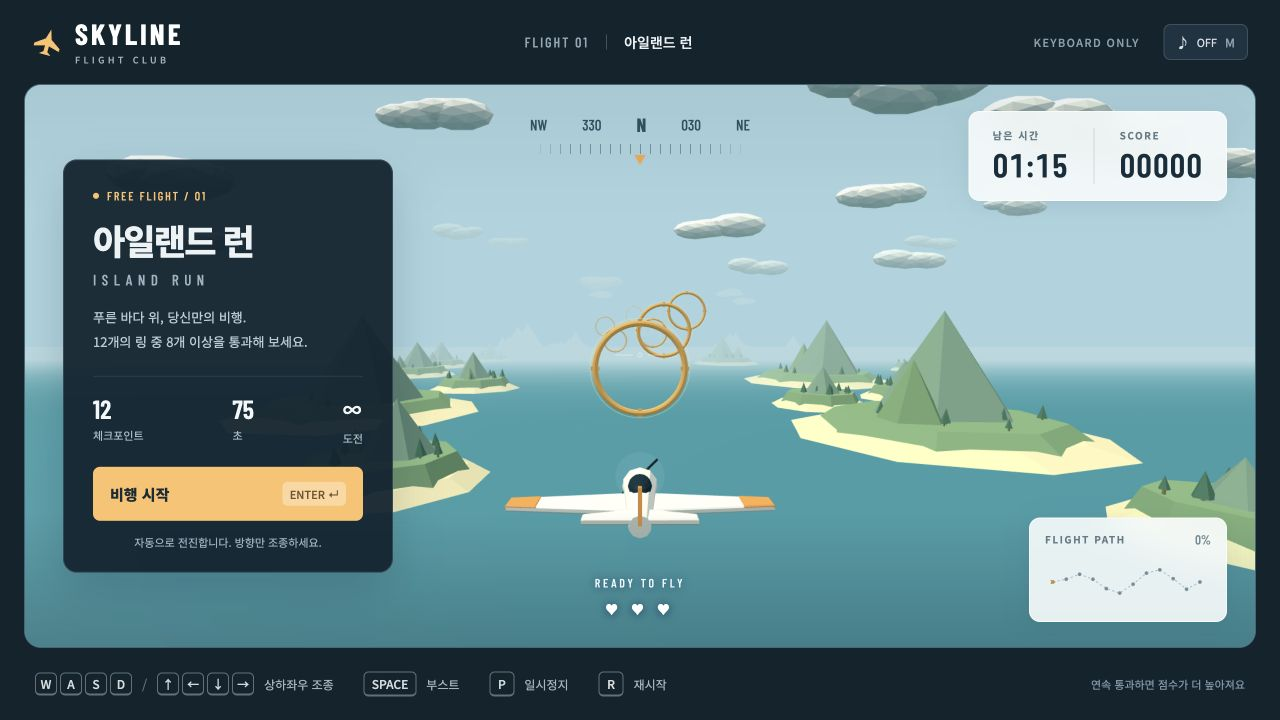
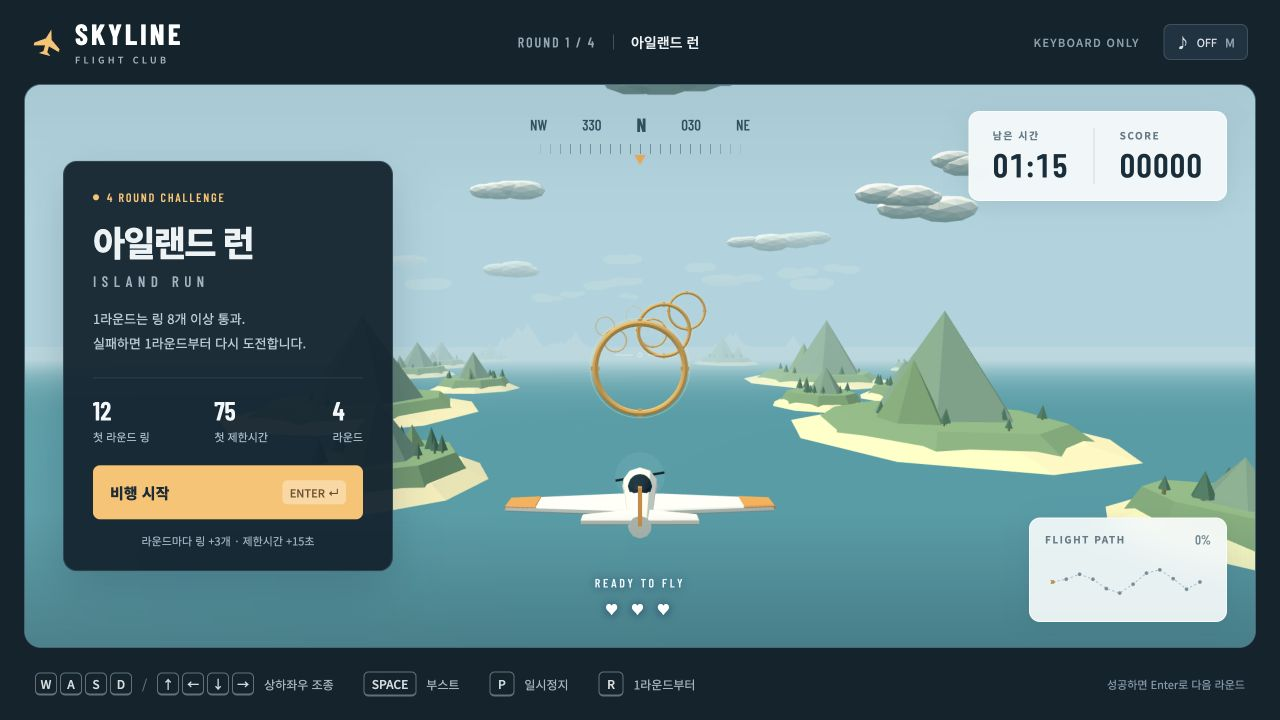
Add four-round challenge with escalating rings and restart on failure

diff --git a/game.js b/game.js
@@ -1,5 +1,5 @@
 import * as THREE from './vendor/three.module.js';
-import {COURSE,newFlight,startFlight,stepFlight} from './flight.js';
+import {COURSE,ROUNDS,getRound,newFlight,startFlight,advanceRound,stepFlight} from './flight.js';
 
 const $=id=>document.getElementById(id);
 const host=$('scene');
@@ -29,14 +29,14 @@ function island(x,z,s){
  const tree=new THREE.Mesh(new THREE.ConeGeometry(h*.35,h,5),treeMat);tree.position.set(tx,29+h*.3,tz);group.add(tree);}
  scene.add(group);
 }
-for(let i=0;i<25;i++){const side=i%2===0?-1:1;island(side*(270+rand()*550),230-i*155,65+rand()*130);}
+for(let i=0;i<38;i++){const side=i%2===0?-1:1;island(side*(270+rand()*550),230-i*155,65+rand()*130);}
 island(-210,-350,90);island(295,-770,85);
 const cloudMat=mat(0xf6f4e9,{transparent:true,opacity:.93});
 const clouds=[];
-for(let i=0;i<33;i++){const cloud=new THREE.Group();cloud.position.set((rand()-.5)*2100,290+rand()*180,450-rand()*4400);for(let j=0;j<4;j++){const c=new THREE.Mesh(new THREE.IcosahedronGeometry(19+rand()*25,1),cloudMat);c.scale.set(1.5,.62,.8);c.position.set(j*29,rand()*13,rand()*8);cloud.add(c);}scene.add(cloud);clouds.push(cloud);}
-const ringData=COURSE.map(r=>({...r,result:null}));
+for(let i=0;i<44;i++){const cloud=new THREE.Group();cloud.position.set((rand()-.5)*2100,290+rand()*180,450-rand()*6000);for(let j=0;j<4;j++){const c=new THREE.Mesh(new THREE.IcosahedronGeometry(19+rand()*25,1),cloudMat);c.scale.set(1.5,.62,.8);c.position.set(j*29,rand()*13,rand()*8);cloud.add(c);}scene.add(cloud);clouds.push(cloud);}
+let ringData=COURSE.map(r=>({...r,result:null}));
 const gold=mat(0xffc366,{metalness:.32,roughness:.35,emissive:0xd98516,emissiveIntensity:.25});
-const ringMeshes=ringData.map((r,i)=>{const g=new THREE.Group();g.position.set(r.x,r.y,r.z);const ring=new THREE.Mesh(new THREE.TorusGeometry(27,1.8,8,64),gold.clone());g.add(ring);const outer=new THREE.Mesh(new THREE.TorusGeometry(30,.2,4,64),new THREE.MeshBasicMaterial({color:0xffe2a5,transparent:true,opacity:.5}));g.add(outer);for(let j=0;j<4;j++){const tick=new THREE.Mesh(new THREE.BoxGeometry(2.4,5,1.8),gold);tick.position.set(Math.sin(j*Math.PI/2)*27,Math.cos(j*Math.PI/2)*27,0);tick.rotation.z=-j*Math.PI/2;g.add(tick);}scene.add(g);return g;});
+const ringMeshes=ROUNDS.at(-1).course.map((r,i)=>{const g=new THREE.Group();const active=ringData[i];g.visible=Boolean(active);g.position.set(active?.x??r.x,active?.y??r.y,r.z);const ring=new THREE.Mesh(new THREE.TorusGeometry(27,1.8,8,64),gold.clone());g.add(ring);const outer=new THREE.Mesh(new THREE.TorusGeometry(30,.2,4,64),new THREE.MeshBasicMaterial({color:0xffe2a5,transparent:true,opacity:.5}));g.add(outer);for(let j=0;j<4;j++){const tick=new THREE.Mesh(new THREE.BoxGeometry(2.4,5,1.8),gold);tick.position.set(Math.sin(j*Math.PI/2)*27,Math.cos(j*Math.PI/2)*27,0);tick.rotation.z=-j*Math.PI/2;g.add(tick);}scene.add(g);return g;});
 const plane=new THREE.Group();const white=mat(0xf0eee5,{roughness:.45,metalness:.1}),orange=mat(0xe99440,{roughness:.46}),dark=mat(0x1c3d4b,{roughness:.24,metalness:.4});
 function part(geometry,material,x,y,z,rx=0,ry=0,rz=0){const m=new THREE.Mesh(geometry,material);m.position.set(x,y,z);m.rotation.set(rx,ry,rz);plane.add(m);return m;}
 const body=part(new THREE.CylinderGeometry(1.4,2.7,17,10),white,0,0,.7,Math.PI/2);
@@ -53,7 +53,7 @@ const propBlur=part(new THREE.CircleGeometry(4,32),new THREE.MeshBasicMaterial({
 plane.position.set(0,100,0);scene.add(plane);
 const mapCtx=$('map').getContext('2d');
 ringData.forEach(()=>{$('segments').appendChild(document.createElement('i'));});
-function drawMap(){const ctx=mapCtx;ctx.clearRect(0,0,360,130);ctx.strokeStyle='#a2b9c2';ctx.lineWidth=2;ctx.setLineDash([5,5]);ctx.beginPath();ringData.forEach((r,i)=>{const x=17+i*29,y=65-r.x*.24;i?ctx.lineTo(x,y):ctx.moveTo(x,y);});ctx.stroke();ctx.setLineDash([]);ringData.forEach((r,i)=>{ctx.beginPath();ctx.arc(17+i*29,65-r.x*.24,4,0,6.28);ctx.fillStyle=r.result==='hit'?'#d8973c':r.result==='miss'?'#9babb3':'#718f9a';ctx.fill();});const p=Math.max(0,Math.min(1,(-plane.position.z-240)/2585));ctx.save();ctx.translate(17+p*319,65-plane.position.x*.24);ctx.fillStyle='#d98929';ctx.beginPath();ctx.moveTo(7,0);ctx.lineTo(-6,-5);ctx.lineTo(-3,0);ctx.lineTo(-6,5);ctx.closePath();ctx.fill();ctx.restore();}
+function drawMap(){const ctx=mapCtx,spacing=319/(ringData.length-1);ctx.clearRect(0,0,360,130);ctx.strokeStyle='#a2b9c2';ctx.lineWidth=2;ctx.setLineDash([5,5]);ctx.beginPath();ringData.forEach((r,i)=>{const x=17+i*spacing,y=65-r.x*.24;i?ctx.lineTo(x,y):ctx.moveTo(x,y);});ctx.stroke();ctx.setLineDash([]);ringData.forEach((r,i)=>{ctx.beginPath();ctx.arc(17+i*spacing,65-r.x*.24,4,0,6.28);ctx.fillStyle=r.result==='hit'?'#d8973c':r.result==='miss'?'#9babb3':'#718f9a';ctx.fill();});const p=Math.max(0,Math.min(1,(-plane.position.z-240)/(-ringData.at(-1).z-240)));ctx.save();ctx.translate(17+p*319,65-plane.position.x*.24);ctx.fillStyle='#d98929';ctx.beginPath();ctx.moveTo(7,0);ctx.lineTo(-6,-5);ctx.lineTo(-3,0);ctx.lineTo(-6,5);ctx.closePath();ctx.fill();ctx.restore();}
 function resize(){const w=host.clientWidth,h=host.clientHeight;renderer.setSize(w,h);camera.aspect=w/h;camera.updateProjectionMatrix();}new ResizeObserver(resize).observe(host);resize();
 camera.position.set(0,124,70);camera.lookAt(0,108,-150);
 const state=newFlight();const keys=new Set();let last=performance.now(),feedbackUntil=0,muted=true,audioCtx,engine,engineGain,engineFilter,best=0;
@@ -63,31 +63,52 @@ function audioReady(){if(!audioCtx){try{audioCtx=new (window.AudioContext||windo
 function chime(good=true){if(muted||!audioCtx)return;const t=audioCtx.currentTime;[0,.085,.17].forEach((offset,i)=>{const osc=audioCtx.createOscillator(),gain=audioCtx.createGain();osc.type='sine';osc.frequency.value=good?[523,659,784][i]:[220,180,140][i];gain.gain.setValueAtTime(0,t+offset);gain.gain.linearRampToValueAtTime(.09,t+offset+.01);gain.gain.exponentialRampToValueAtTime(.001,t+offset+.24);osc.connect(gain).connect(audioCtx.destination);osc.start(t+offset);osc.stop(t+offset+.25);});}
 function toggleSound(){muted=!muted;audioReady();$('soundLabel').textContent=muted?'OFF':'ON';$('sound').setAttribute('aria-label',muted?'소리 켜기':'소리 끄기');$('sound').setAttribute('aria-pressed',String(!muted));}
 function notify(title,subtitle='',color='#fff2ce'){const node=$('feedback');node.replaceChildren();node.append(document.createTextNode(title));if(subtitle){const small=document.createElement('small');small.textContent=subtitle;node.append(small);}node.style.color=color;node.style.opacity='1';feedbackUntil=performance.now()+1600;}
-function snapshot(){return {phase:state.phase,outcome:state.outcome,rings:state.hits,checked:state.next,total:12,score:state.score,time:Math.ceil(state.time),altitude:Math.round(state.y),speed:Math.round(state.speed*3.6),boost:Math.round(state.boost),lives:state.lives};}
-function start(){startFlight(state);keys.clear();ringData.forEach((r,i)=>{r.result=null;ringMeshes[i].visible=true;ringMeshes[i].children[0].material.color.set(0xffc366);});particles.forEach(p=>scene.remove(p.mesh));particles.length=0;plane.position.set(0,100,0);plane.rotation.set(0,0,0);plane.visible=true;camera.position.set(0,124,70);camera.fov=57;camera.updateProjectionMatrix();$('startCard').hidden=true;$('overlay').hidden=true;document.body.classList.add('playing');$('targetHint').hidden=false;audioReady();notify('좋은 비행 되세요','WASD / 방향키 · 링의 가운데를 향해');$('game').focus({preventScroll:true});updateHud();}
+function snapshot(){const config=getRound(state.round);return {phase:state.phase,outcome:state.outcome,round:state.round,totalRounds:ROUNDS.length,roundsCleared:state.roundsCleared,rings:state.hits,checked:state.next,total:config.rings,required:config.required,totalHits:state.totalHits,score:state.score,time:Math.ceil(state.time),altitude:Math.round(state.y),speed:Math.round(state.speed*3.6),boost:Math.round(state.boost),lives:state.lives};}
+function beginRound(){
+ keys.clear();ringData=getRound(state.round).course.map(r=>({...r,result:null}));
+ $('segments').replaceChildren(...ringData.map(()=>document.createElement('i')));
+ ringMeshes.forEach((mesh,i)=>{const r=ringData[i];mesh.visible=Boolean(r);if(r)mesh.position.set(r.x,r.y,r.z);});
+ particles.forEach(p=>scene.remove(p.mesh));particles.length=0;
+ plane.position.set(0,100,0);plane.rotation.set(0,0,0);plane.visible=true;
+ camera.position.set(0,124,70);camera.lookAt(0,108,-150);camera.fov=57;camera.updateProjectionMatrix();
+ $('startCard').hidden=true;$('overlay').hidden=true;document.body.classList.add('playing');$('targetHint').hidden=false;
+ audioReady();last=performance.now();$('game').focus({preventScroll:true});updateHud();
+}
+function start(){startFlight(state);beginRound();notify('1라운드 시작','WASD / 방향키 · 자동으로 전진합니다');}
+function nextRound(){advanceRound(state);beginRound();const config=getRound(state.round);notify(`${state.round}라운드 시작`,`${config.rings}개 링 · ${config.time}초 · ${config.required}개 이상 통과`);}
 function pause(){if(state.phase!=='flying')return;state.phase='paused';keys.clear();$('dialogTag').textContent='FLIGHT PAUSED';$('dialogTitle').textContent='잠시 쉬어가기';$('dialogDescription').textContent='P 또는 Enter를 누르면 비행을 계속합니다.';$('resultStats').hidden=true;$('resumeLabel').textContent='비행 계속';$('resumeKey').textContent='P';$('restartButton').hidden=false;$('overlay').hidden=false;$('resumeButton').focus({preventScroll:true});updateHud();}
 function resume(){if(state.phase!=='paused')return;state.phase='flying';keys.clear();$('overlay').hidden=true;$('game').focus({preventScroll:true});audioReady();last=performance.now();updateHud();}
-function end(){keys.clear();const won=state.outcome==='win';const perfect=state.hits===12;const newRecord=state.score>best;if(newRecord){best=state.score;try{localStorage.setItem('skyline-best-v1',String(best));}catch{}}
- $('dialogTag').textContent=won?(perfect?'PERFECT FLIGHT':'MISSION COMPLETE'):'FLIGHT COMPLETE';
- $('dialogTitle').textContent=won?(perfect?'완벽한 비행!':'멋진 비행이었어요'):'다시 날아볼까요?';
- $('dialogDescription').textContent=state.outcome==='crash'?'바다에 세 번 닿았어요. W 또는 ↑로 고도를 높여 보세요.':state.outcome==='timeout'?'제한시간이 끝났어요. 링을 통과하면 2초를 얻습니다.':won?'아일랜드 코스를 완주했습니다. 다음엔 모든 링의 정중앙을 노려보세요.':'완주 성공까지 링 8개가 필요해요. 다음 비행에서 도전해 보세요.';
- $('resultStats').replaceChildren();[[newRecord?'새 최고 점수':'이번 점수',state.score.toLocaleString()],['통과한 링',`${state.hits} / 12`],['이 기기 최고',best.toLocaleString()]].forEach(([label,value])=>{const span=document.createElement('span');span.textContent=label;const b=document.createElement('strong');b.textContent=value;span.append(b);$('resultStats').append(span);});
- $('resultStats').hidden=false;$('resumeLabel').textContent='다시 비행하기';$('resumeKey').textContent='ENTER ↵';$('restartButton').hidden=true;$('overlay').hidden=false;$('resumeButton').focus({preventScroll:true});$('targetHint').hidden=true;chime(won);updateHud();
+function showStats(items){$('resultStats').replaceChildren();items.forEach(([label,value])=>{const span=document.createElement('span');span.textContent=label;const b=document.createElement('strong');b.textContent=value;span.append(b);$('resultStats').append(span);});$('resultStats').hidden=false;}
+function roundCleared(){
+ keys.clear();const next=getRound(state.round+1);
+ $('dialogTag').textContent=`ROUND ${state.round} CLEAR / ${ROUNDS.length}`;$('dialogTitle').textContent=`${state.round}라운드 성공!`;
+ $('dialogDescription').textContent=`다음은 ${next.number}라운드입니다. 링 ${next.rings}개, 제한시간 ${next.time}초! ${next.required}개 이상 통과하세요.`;
+ showStats([['누적 점수',state.score.toLocaleString()],['통과한 링',`${state.hits} / ${ringData.length}`],['다음 제한시간',`${next.time}초`]]);
+ $('resumeLabel').textContent=`${next.number}라운드 시작`;$('resumeKey').textContent='ENTER ↵';$('restartButton').hidden=false;
+ $('overlay').hidden=false;$('resumeButton').focus({preventScroll:true});$('targetHint').hidden=true;chime();updateHud();
+}
+function end(){keys.clear();const won=state.outcome==='win';const totalRings=ROUNDS.reduce((sum,r)=>sum+r.rings,0);const perfect=state.totalHits===totalRings;const newRecord=state.score>best;if(newRecord){best=state.score;try{localStorage.setItem('skyline-best-v1',String(best));}catch{}}
+ $('dialogTag').textContent=won?(perfect?'PERFECT CHALLENGE':'ALL ROUNDS COMPLETE'):`ROUND ${state.round} FAILED`;
+ $('dialogTitle').textContent=won?'4라운드 모두 완주!':`${state.round}라운드 실패`;
+ const reason=state.outcome==='crash'?'바다에 세 번 닿았어요.':state.outcome==='timeout'?'제한시간이 끝났어요.':`링 ${getRound(state.round).required}개 이상을 통과해야 합니다.`;
+ $('dialogDescription').textContent=won?'모든 라운드를 성공했습니다! 다시 도전하면 1라운드부터 시작합니다.':`${reason} 재도전은 점수를 초기화하고 1라운드부터 시작합니다.`;
+ showStats([[newRecord?'새 최고 점수':'누적 점수',state.score.toLocaleString()],['성공한 라운드',`${state.roundsCleared} / ${ROUNDS.length}`],['이 기기 최고',best.toLocaleString()]]);
+ $('resumeLabel').textContent='1라운드부터 다시';$('resumeKey').textContent='ENTER ↵';$('restartButton').hidden=true;$('overlay').hidden=false;$('resumeButton').focus({preventScroll:true});$('targetHint').hidden=true;chime(won);updateHud();
 }
 function burst(index){const r=ringData[index];for(let j=0;j<28;j++){const a=j/28*Math.PI*2;const mesh=new THREE.Mesh(particleGeo,particleMat);mesh.position.set(r.x+Math.cos(a)*25,r.y+Math.sin(a)*25,r.z);scene.add(mesh);particles.push({mesh,v:new THREE.Vector3(Math.cos(a)*12,Math.sin(a)*12,12),life:1});}}
-function updateHud(){const s=state;$('score').textContent=String(s.score).padStart(5,'0');const seconds=Math.max(0,Math.ceil(s.time));$('timer').textContent=`${String(Math.floor(seconds/60)).padStart(2,'0')}:${String(seconds%60).padStart(2,'0')}`;document.querySelector('.scoreboard').classList.toggle('danger',seconds<=15);$('ringCount').innerHTML=`${String(s.hits).padStart(2,'0')} <small>/ 12 RINGS</small>`;$('speed').textContent=Math.round(s.speed*3.6);$('altitude').textContent=Math.round(s.y);$('speedBar').style.width=`${s.speed/113*100}%`;$('altitudeBar').style.width=`${s.y/265*100}%`;$('boostBar').style.width=`${s.boost}%`;$('boostText').textContent=s.boosting?'부스트 사용 중':s.boost<99?'부스트 충전 중':'가속 준비 완료';$('statusText').textContent=s.phase==='ready'?'READY TO FLY':s.phase==='paused'?'FLIGHT PAUSED':s.phase==='ended'?'FLIGHT COMPLETE':s.boosting?'BOOST ACTIVE':'CRUISING';$('lives').textContent='♥ '.repeat(s.lives)+'♡ '.repeat(3-s.lives);$('lowWarning').hidden=s.y>34||s.phase!=='flying';$('routePercent').textContent=Math.min(100,Math.round(-s.z/2825*100))+'%';if(s.next<12){$('distance').textContent=Math.max(0,Math.round(s.z-COURSE[s.next].z))+' m';}
+function updateHud(){const s=state,config=getRound(s.round);$('roundLabel').textContent=`ROUND ${s.round} / ${ROUNDS.length}`;$('missionRound').textContent=`ROUND ${s.round} / ${ROUNDS.length}`;$('missionGoal').textContent=`${config.rings}개 중 ${config.required}개 이상 통과하세요`;$('score').textContent=String(s.score).padStart(5,'0');const seconds=Math.max(0,Math.ceil(s.time));$('timer').textContent=`${String(Math.floor(seconds/60)).padStart(2,'0')}:${String(seconds%60).padStart(2,'0')}`;document.querySelector('.scoreboard').classList.toggle('danger',seconds<=15);$('ringCount').innerHTML=`${String(s.hits).padStart(2,'0')} <small>/ ${config.rings} RINGS</small>`;$('speed').textContent=Math.round(s.speed*3.6);$('altitude').textContent=Math.round(s.y);$('speedBar').style.width=`${s.speed/113*100}%`;$('altitudeBar').style.width=`${s.y/265*100}%`;$('boostBar').style.width=`${s.boost}%`;$('boostText').textContent=s.boosting?'부스트 사용 중':s.boost<99?'부스트 충전 중':'가속 준비 완료';$('statusText').textContent=s.phase==='ready'?'READY TO FLY':s.phase==='paused'?'FLIGHT PAUSED':s.phase==='round-cleared'?'ROUND COMPLETE':s.phase==='ended'?'FLIGHT COMPLETE':s.boosting?'BOOST ACTIVE':'CRUISING';$('lives').textContent='♥ '.repeat(s.lives)+'♡ '.repeat(3-s.lives);$('lowWarning').hidden=s.y>34||s.phase!=='flying';$('routePercent').textContent=Math.min(100,Math.round(s.z/config.course.at(-1).z*100))+'%';if(s.next<config.rings){$('distance').textContent=Math.max(0,Math.round(s.z-config.course[s.next].z))+' m';}
  [...$('segments').children].forEach((el,i)=>el.className=s.results[i]||'');drawMap();}
 const supported=new Set(['KeyW','KeyA','KeyS','KeyD','ArrowUp','ArrowDown','ArrowLeft','ArrowRight','Space','Enter','KeyP','Escape','KeyR','KeyM']);
-window.addEventListener('keydown',e=>{if(e.metaKey||e.ctrlKey||e.altKey||!supported.has(e.code))return;e.preventDefault();if(e.repeat)return;keys.add(e.code);if(e.code==='Enter'){if(state.phase==='ready'||state.phase==='ended')start();else if(state.phase==='paused')resume();}else if(e.code==='KeyP'||e.code==='Escape'){state.phase==='flying'?pause():resume();}else if(e.code==='KeyR')start();else if(e.code==='KeyM')toggleSound();});
+window.addEventListener('keydown',e=>{if(e.metaKey||e.ctrlKey||e.altKey||!supported.has(e.code))return;e.preventDefault();if(e.repeat)return;keys.add(e.code);if(e.code==='Enter'){if(state.phase==='ready'||state.phase==='ended')start();else if(state.phase==='round-cleared')nextRound();else if(state.phase==='paused')resume();}else if(e.code==='KeyP'||e.code==='Escape'){state.phase==='flying'?pause():resume();}else if(e.code==='KeyR')start();else if(e.code==='KeyM')toggleSound();});
 window.addEventListener('keyup',e=>{keys.delete(e.code);if(supported.has(e.code))e.preventDefault();});
 window.addEventListener('blur',()=>{keys.clear();pause();});document.addEventListener('visibilitychange',()=>{if(document.hidden){keys.clear();pause();}});
-$('startButton').addEventListener('click',start);$('resumeButton').addEventListener('click',()=>state.phase==='ended'?start():resume());$('restartButton').addEventListener('click',start);$('sound').addEventListener('click',toggleSound);
+$('startButton').addEventListener('click',start);$('resumeButton').addEventListener('click',()=>{if(state.phase==='round-cleared')nextRound();else if(state.phase==='ended')start();else resume();});$('restartButton').addEventListener('click',start);$('sound').addEventListener('click',toggleSound);
 renderer.domElement.addEventListener('webglcontextlost',e=>{e.preventDefault();pause();$('error').hidden=false;$('error').textContent='3D 화면 연결이 잠시 끊겼어요. 페이지를 새로고침하면 다시 비행할 수 있습니다.';});
 const cameraGoal=new THREE.Vector3(),lookGoal=new THREE.Vector3();let hudTick=0;
 function animate(now){requestAnimationFrame(animate);const dt=Math.min((now-last)/1000,.05);last=now;
  if(state.phase==='flying'){
   const events=stepFlight(state,dt,{left:keys.has('KeyA')||keys.has('ArrowLeft'),right:keys.has('KeyD')||keys.has('ArrowRight'),up:keys.has('KeyW')||keys.has('ArrowUp'),down:keys.has('KeyS')||keys.has('ArrowDown'),boost:keys.has('Space')});
-  for(const e of events){if(e.type==='hit'){ringData[e.index].result='hit';ringMeshes[e.index].visible=false;burst(e.index);notify(e.perfect?'PERFECT!':`NICE FLIGHT!`,`+${e.points}  ·  ${Math.min(e.combo,5)}× COMBO  ·  +2초`);chime();}else if(e.type==='miss'){ringData[e.index].result='miss';ringMeshes[e.index].visible=false;notify('다음 링을 노려보세요','−5초 · 연속 보너스 초기화','#ffe7d1');chime(false);}else if(e.type==='collision'){notify('바다에 닿았어요','기체 복구 · W / ↑로 상승','#ffd7c0');chime(false);}else if(e.type==='end')end();}
+  for(const e of events){if(e.type==='hit'){ringData[e.index].result='hit';ringMeshes[e.index].visible=false;burst(e.index);notify(e.perfect?'PERFECT!':`NICE FLIGHT!`,`+${e.points}  ·  ${Math.min(e.combo,5)}× COMBO  ·  +2초`);chime();}else if(e.type==='miss'){ringData[e.index].result='miss';ringMeshes[e.index].visible=false;notify('다음 링을 노려보세요','−5초 · 연속 보너스 초기화','#ffe7d1');chime(false);}else if(e.type==='collision'){notify('바다에 닿았어요','기체 복구 · W / ↑로 상승','#ffd7c0');chime(false);}else if(e.type==='round-clear')roundCleared();else if(e.type==='end')end();}
   plane.position.set(state.x,state.y,state.z);const smooth=1-Math.exp(-dt*5);plane.rotation.z+=(-state.vx*.009-plane.rotation.z)*smooth;plane.rotation.x+=(state.vy*.006-plane.rotation.x)*smooth;plane.rotation.y+=(-state.vx*.002-plane.rotation.y)*smooth;plane.visible=state.invulnerable<=0||Math.floor(now/120)%2===0;
   cameraGoal.set(state.x*.83,state.y+24,state.z+70);camera.position.lerp(cameraGoal,1-Math.exp(-dt*4));lookGoal.set(state.x*.96,state.y+8,state.z-150);camera.lookAt(lookGoal);camera.fov+=((state.boosting?65:57)-camera.fov)*smooth;camera.updateProjectionMatrix();
  }else if(state.phase==='ready'){plane.position.y=100+Math.sin(now*.0008)*.9;plane.rotation.z=Math.sin(now*.00045)*.025;}
@@ -97,8 +118,8 @@ function animate(now){requestAnimationFrame(animate);const dt=Math.min((now-last
 }
 const context=document.modelContext;
 if(context?.registerTool){const controller=new AbortController();const register=tool=>{try{Promise.resolve(context.registerTool(tool,{signal:controller.signal})).catch(()=>{});}catch{}};
- register({name:'get_flight_status',title:'비행 상태 확인',description:'현재 점수, 통과한 링, 남은 시간과 비행 상태를 확인합니다.',inputSchema:{type:'object',properties:{},additionalProperties:false},annotations:{readOnlyHint:true,untrustedContentHint:false},execute:input=>{if(input&&Object.keys(input).length)throw new Error('입력값이 필요하지 않습니다.');return snapshot();}});
- register({name:'control_flight',title:'비행 시작 또는 일시정지',description:'화면의 버튼과 동일하게 비행을 시작, 일시정지, 재개하거나 처음부터 다시 시작합니다. restart는 현재 점수를 초기화합니다.',inputSchema:{type:'object',properties:{action:{type:'string',enum:['start','pause','resume','restart']}},required:['action'],additionalProperties:false},annotations:{readOnlyHint:false,untrustedContentHint:false},execute:input=>{if(!input||Object.keys(input).length!==1||!['start','pause','resume','restart'].includes(input.action))throw new Error('올바른 비행 동작을 선택하세요.');const a=input.action;if(a==='start'&&state.phase!=='ready'&&state.phase!=='ended')throw new Error('진행 중인 비행은 resume 또는 restart를 사용하세요.');if(a==='pause'&&state.phase!=='flying')throw new Error('비행 중에만 일시정지할 수 있습니다.');if(a==='resume'&&state.phase!=='paused')throw new Error('일시정지 상태에서만 계속할 수 있습니다.');if(a==='start'||a==='restart')start();else if(a==='pause')pause();else resume();return snapshot();}});
+ register({name:'get_flight_status',title:'비행 상태 확인',description:'현재 라운드, 통과 목표, 누적 점수, 남은 시간과 비행 상태를 확인합니다.',inputSchema:{type:'object',properties:{},additionalProperties:false},annotations:{readOnlyHint:true,untrustedContentHint:false},execute:input=>{if(input&&Object.keys(input).length)throw new Error('입력값이 필요하지 않습니다.');return snapshot();}});
+ register({name:'control_flight',title:'비행 시작 또는 일시정지',description:'화면의 버튼과 동일하게 비행을 시작, 일시정지, 재개하거나 성공한 뒤 next_round로 다음 라운드를 시작합니다. restart는 점수를 초기화하고 1라운드부터 다시 시작합니다.',inputSchema:{type:'object',properties:{action:{type:'string',enum:['start','pause','resume','restart','next_round']}},required:['action'],additionalProperties:false},annotations:{readOnlyHint:false,untrustedContentHint:false},execute:input=>{if(!input||Object.keys(input).length!==1||!['start','pause','resume','restart','next_round'].includes(input.action))throw new Error('올바른 비행 동작을 선택하세요.');const a=input.action;if(a==='start'&&state.phase!=='ready'&&state.phase!=='ended')throw new Error('진행 중인 비행은 resume 또는 restart를 사용하세요.');if(a==='pause'&&state.phase!=='flying')throw new Error('비행 중에만 일시정지할 수 있습니다.');if(a==='resume'&&state.phase!=='paused')throw new Error('일시정지 상태에서만 계속할 수 있습니다.');if(a==='next_round'&&state.phase!=='round-cleared')throw new Error('라운드를 성공한 뒤에만 다음 라운드로 갈 수 있습니다.');if(a==='start'||a==='restart')start();else if(a==='next_round')nextRound();else if(a==='pause')pause();else resume();return snapshot();}});
  window.addEventListener('pagehide',()=>controller.abort(),{once:true});
 }
 updateHud();$('game').focus({preventScroll:true});requestAnimationFrame(animate);

diff --git a/index.html b/index.html
@@ -10,14 +10,14 @@
 <body>
 <header class="topbar">
   <a class="brand" href="./" aria-label="스카이라인 홈"><svg viewBox="0 0 32 32" aria-hidden="true"><path d="M16 3 19 13 29 20 29 23 18 20 18 26 22 29 10 29 14 26 14 20 3 23 3 20 13 13Z"/></svg><strong>SKYLINE<span>FLIGHT CLUB</span></strong></a>
-  <div class="flight-title"><span class="flight-no">FLIGHT 01</span><span class="separator"></span><span>아일랜드 런</span></div>
+  <div class="flight-title"><span class="flight-no" id="roundLabel">ROUND 1 / 4</span><span class="separator"></span><span>아일랜드 런</span></div>
   <div class="top-actions"><span class="keyboard-note">KEYBOARD ONLY</span><button id="sound" class="icon-button" aria-label="소리 켜기" title="M · 소리">♪ <span id="soundLabel">OFF</span><kbd>M</kbd></button></div>
 </header>
 <main id="game" aria-label="3D 비행 게임" tabindex="-1">
   <div id="scene" role="img" aria-label="바다와 섬 사이를 비행하는 비행기와 황금빛 체크포인트 링"></div>
   <div class="vignette"></div>
   <div class="hud-top">
-    <div class="mission panel"><div class="eyebrow">YOUR MISSION</div><strong>황금빛 링을 따라 비행하세요</strong><div class="mission-progress"><span id="ringCount">00 <small>/ 12 RINGS</small></span><div class="segments" id="segments"></div></div></div>
+    <div class="mission panel"><div class="eyebrow" id="missionRound">ROUND 1 / 4</div><strong id="missionGoal">12개 중 8개 이상 통과하세요</strong><div class="mission-progress"><span id="ringCount">00 <small>/ 12 RINGS</small></span><div class="segments" id="segments"></div></div></div>
     <div class="compass"><div class="compass-labels"><span>NW</span><span>330</span><strong>N</strong><span>030</span><span>NE</span></div><div class="compass-ticks"></div><span class="compass-pointer">▼</span></div>
     <div class="scoreboard panel"><div><span class="eyebrow">남은 시간</span><strong id="timer">01:15</strong></div><span class="score-divider"></span><div><span class="eyebrow">SCORE</span><strong id="score">00000</strong></div></div>
   </div>
@@ -26,12 +26,12 @@
   <div id="feedback" class="feedback" aria-live="polite"></div>
   <div id="lowWarning" class="low-warning" hidden>고도가 낮아요 · W / ↑ 로 상승</div>
   <section class="start-card" id="startCard" aria-label="비행 시작">
-    <span class="route-tag"><span></span> FREE FLIGHT / 01</span>
+    <span class="route-tag"><span></span> 4 ROUND CHALLENGE</span>
     <h1>아일랜드 런<span>ISLAND RUN</span></h1>
-    <p>푸른 바다 위, 당신만의 비행.<br>12개의 링 중 8개 이상을 통과해 보세요.</p>
-    <div class="brief"><span><b>12</b> 체크포인트</span><span><b>75</b> 초</span><span><b>∞</b> 도전</span></div>
+    <p>1라운드는 링 8개 이상 통과.<br>실패하면 1라운드부터 다시 도전합니다.</p>
+    <div class="brief"><span><b>12</b> 첫 라운드 링</span><span><b>75</b> 첫 제한시간</span><span><b>4</b> 라운드</span></div>
     <button class="primary" id="startButton"><span>비행 시작</span><kbd>ENTER ↵</kbd></button>
-    <div class="start-tip">자동으로 전진합니다. 방향만 조종하세요.</div>
+    <div class="start-tip">라운드마다 링 +3개 · 제한시간 +15초</div>
   </section>
   <div class="overlay" id="overlay" hidden><section class="dialog panel" role="dialog" aria-modal="true" aria-labelledby="dialogTitle"><span class="route-tag" id="dialogTag">FLIGHT PAUSED</span><h2 id="dialogTitle">잠시 쉬어가기</h2><p id="dialogDescription">준비되면 다시 하늘로 돌아가세요.</p><div id="resultStats" class="result-stats" hidden></div><button class="primary" id="resumeButton"><span id="resumeLabel">비행 계속</span><kbd id="resumeKey">P</kbd></button><button class="secondary" id="restartButton">처음부터 다시 <kbd>R</kbd></button></section></div>
   <div id="error" class="error" hidden></div>
@@ -41,6 +41,6 @@
     <div class="route-map panel"><div><span class="eyebrow">FLIGHT PATH</span><span id="routePercent">0%</span></div><canvas id="map" width="360" height="130" aria-label="비행 경로 미니맵"></canvas></div>
   </div>
 </main>
-<footer class="controls"><div class="control-group"><span class="keyset"><kbd>W</kbd><kbd>A</kbd><kbd>S</kbd><kbd>D</kbd></span><span class="or">/</span><span class="keyset arrows"><kbd>↑</kbd><kbd>←</kbd><kbd>↓</kbd><kbd>→</kbd></span><span>상하좌우 조종</span></div><div class="control-group"><kbd>SPACE</kbd><span>부스트</span></div><div class="control-group"><kbd>P</kbd><span>일시정지</span></div><div class="control-group"><kbd>R</kbd><span>재시작</span></div><span class="footer-note">연속 통과하면 점수가 더 높아져요</span></footer>
+<footer class="controls"><div class="control-group"><span class="keyset"><kbd>W</kbd><kbd>A</kbd><kbd>S</kbd><kbd>D</kbd></span><span class="or">/</span><span class="keyset arrows"><kbd>↑</kbd><kbd>←</kbd><kbd>↓</kbd><kbd>→</kbd></span><span>상하좌우 조종</span></div><div class="control-group"><kbd>SPACE</kbd><span>부스트</span></div><div class="control-group"><kbd>P</kbd><span>일시정지</span></div><div class="control-group"><kbd>R</kbd><span>1라운드부터</span></div><span class="footer-note">성공하면 Enter로 다음 라운드</span></footer>
 <script type="module" src="game.js"></script>
 </body></html>

diff --git a/flight.js b/flight.js
@@ -1,14 +1,39 @@
-export const COURSE=Object.freeze([
+const ROUTE=[
   [0,100],[25,122],[70,150],[25,115],[-60,95],[-100,130],
-  [-20,170],[80,140],[110,95],[30,120],[-65,150],[0,110]
-].map(([x,y],i)=>Object.freeze({x,y,z:-240-i*235})));
-export function newFlight(){return {phase:'ready',x:0,y:100,z:0,vx:0,vy:0,speed:65,time:75,boost:100,boostLocked:false,boosting:false,lives:3,invulnerable:0,score:0,combo:0,hits:0,perfects:0,next:0,results:Array(12).fill(null),outcome:null};}
+  [-20,170],[80,140],[110,95],[30,120],[-65,150],[0,110],
+  [45,140],[85,165],[10,125],[-80,100],[-30,135],[60,170],
+  [110,130],[40,105],[-60,140]
+];
+export const ROUNDS=Object.freeze([12,15,18,21].map((rings,index)=>{
+  const course=Object.freeze(ROUTE.slice(0,rings).map(([x,y],i)=>Object.freeze({
+    x:index%2?-x:x,
+    y:index===0?y:Math.round(y+Math.sin(i*.8+index)*12),
+    z:-240-i*235
+  })));
+  return Object.freeze({number:index+1,rings,time:75+index*15,required:Math.ceil(rings*2/3),course});
+}));
+export const COURSE=ROUNDS[0].course;
+export function getRound(number){
+  if(!Number.isInteger(number)||number<1||number>ROUNDS.length)throw new RangeError('라운드는 1부터 4까지입니다.');
+  return ROUNDS[number-1];
+}
+export function newFlight(round=1){const config=getRound(round);return {phase:'ready',round,roundsCleared:0,totalHits:0,x:0,y:100,z:0,vx:0,vy:0,speed:65,time:config.time,boost:100,boostLocked:false,boosting:false,lives:3,invulnerable:0,score:0,combo:0,hits:0,perfects:0,next:0,results:Array(config.rings).fill(null),outcome:null};}
 export function startFlight(s){Object.assign(s,newFlight(),{phase:'flying'});}
-export function finishFlight(s,reason){s.phase='ended';s.boosting=false;s.outcome=reason;return {type:'end',reason};}
+export function advanceRound(s){
+  if(s.phase!=='round-cleared'||s.round>=ROUNDS.length)throw new Error('라운드를 성공한 뒤에만 다음 라운드로 갈 수 있습니다.');
+  const progress={score:s.score,totalHits:s.totalHits,roundsCleared:s.roundsCleared};
+  Object.assign(s,newFlight(s.round+1),progress,{phase:'flying'});
+}
+export function finishFlight(s,reason){
+  if(reason==='win')s.roundsCleared=s.round;
+  s.phase=reason==='win'&&s.round<ROUNDS.length?'round-cleared':'ended';
+  s.boosting=false;s.outcome=reason;
+  return {type:s.phase==='round-cleared'?'round-clear':'end',reason};
+}
 const clamp=(v,a,b)=>Math.max(a,Math.min(b,v));
 export function stepFlight(s,dt,keys={}){
   if(s.phase!=='flying'||!Number.isFinite(dt)||dt<=0)return [];
-  dt=Math.min(dt,.1);const events=[];const before={x:s.x,y:s.y,z:s.z};
+  dt=Math.min(dt,.1);const events=[];const before={x:s.x,y:s.y,z:s.z};const config=getRound(s.round),course=config.course;
   const ix=Number(Boolean(keys.right))-Number(Boolean(keys.left));
   const iy=Number(Boolean(keys.up))-Number(Boolean(keys.down));
   const smooth=1-Math.exp(-dt*6);
@@ -21,16 +46,16 @@ export function stepFlight(s,dt,keys={}){
   s.x=clamp(s.x+s.vx*dt,-160,160);s.y=clamp(s.y+s.vy*dt,8,265);s.z-=s.speed*dt;
   s.invulnerable=Math.max(0,s.invulnerable-dt);s.time=Math.max(0,s.time-dt);
   if(s.y<13&&s.invulnerable<=0){s.lives--;s.combo=0;s.y=48;s.vy=20;s.invulnerable=2.5;events.push({type:'collision'});if(s.lives<=0){events.push(finishFlight(s,'crash'));return events;}}
-  while(s.next<COURSE.length&&s.z<=COURSE[s.next].z){
-    const ring=COURSE[s.next];
+  while(s.next<course.length&&s.z<=course[s.next].z){
+    const ring=course[s.next];
     const t=clamp((before.z-ring.z)/(before.z-s.z),0,1);
     const x=before.x+(s.x-before.x)*t,y=before.y+(s.y-before.y)*t;
     const distance=Math.hypot(x-ring.x,y-ring.y);
-    if(distance<25){s.hits++;s.combo++;const perfect=distance<9;if(perfect)s.perfects++;const points=100*Math.min(s.combo,5)+(perfect?75:0);s.score+=points;s.time+=2;s.results[s.next]='hit';events.push({type:'hit',index:s.next,points,perfect,combo:s.combo});}
+    if(distance<25){s.hits++;s.totalHits++;s.combo++;const perfect=distance<9;if(perfect)s.perfects++;const points=100*Math.min(s.combo,5)+(perfect?75:0);s.score+=points;s.time+=2;s.results[s.next]='hit';events.push({type:'hit',index:s.next,points,perfect,combo:s.combo});}
     else{s.combo=0;s.time=Math.max(0,s.time-5);s.results[s.next]='miss';events.push({type:'miss',index:s.next});}
     s.next++;
   }
-  if(s.next===COURSE.length){const won=s.hits>=8;if(won)s.score+=Math.floor(s.time)*10;events.push(finishFlight(s,won?'win':'rings'));}
-  else if(s.time<=0)events.push(finishFlight(s,'timeout'));
+  if(s.time<=0)events.push(finishFlight(s,'timeout'));
+  else if(s.next===course.length){const won=s.hits>=config.required;if(won)s.score+=Math.floor(s.time)*10;events.push(finishFlight(s,won?'win':'rings'));}
   return events;
 }

diff --git a/style.css b/style.css
@@ -8,3 +8,5 @@ main{height:calc(100dvh - 156px);min-height:350px;margin:0 24px;border-radius:17
 @media(max-width:500px){.flight-title{display:none}.route-map{display:none}.telemetry{width:100%;justify-content:space-between}.hud-top{gap:7px}.mission{width:195px}.scoreboard{gap:10px;padding:10px}.scoreboard .eyebrow{font-size:8px;letter-spacing:.5px}.scoreboard strong{font-size:21px}.mission strong{font-size:11px}.mission .eyebrow{font-size:8px}.segments i{width:3px}.start-card{left:50%;transform:translate(-50%,-40%)}.target-hint{top:29%}.low-warning{font-size:11px;bottom:115px}}
 @media(max-height:690px) and (min-width:761px){.topbar{height:64px}main{height:calc(100dvh - 121px)}.controls{height:57px}.hud-top{top:17px}.mission{padding:10px 15px}.mission-progress{margin-top:4px}.start-card{top:47%;width:285px;padding:18px 22px}.start-card h1{font-size:28px;margin:9px 0}.start-card h1 span{font-size:12px;margin-top:4px}.start-card p{margin:10px 0;font-size:12px}.brief{padding-top:10px;margin-bottom:12px}.brief b{font-size:22px}.start-tip{font-size:10px}.primary{padding:11px 14px}.hud-bottom{bottom:16px}.telemetry{padding:11px 17px}.instrument strong{font-size:29px}}
 @media(max-height:850px) and (min-width:761px){body:not(.playing) .mission,body:not(.playing) .telemetry{visibility:hidden}.start-card{top:50%;transform:translateY(-50%)}}
+
+.segments{flex:1;min-width:0}.segments i{flex:1;min-width:1px;width:auto}

diff --git a/README.md b/README.md
@@ -10,21 +10,32 @@
 
 | 키 | 기능 |
 | --- | --- |
-| Enter | 시작 / 일시정지 상태에서 계속 / 종료 후 다시 시작 |
+| Enter | 시작 / 계속 / 성공 후 다음 라운드 / 실패 후 1라운드부터 재도전 |
 | W 또는 ↑ | 상승 |
 | S 또는 ↓ | 하강 |
 | A 또는 ← | 왼쪽 이동 |
 | D 또는 → | 오른쪽 이동 |
 | Space | 부스트 — 누르고 있는 동안 가속 |
 | P 또는 Esc | 일시정지 / 계속 |
-| R | 처음부터 다시 시작 |
+| R | 점수를 초기화하고 1라운드부터 다시 시작 |
 | M | 소리 켜기 / 끄기 |
 
 비행기는 자동으로 전진합니다. 다른 창으로 이동하면 자동으로 일시정지됩니다.
 
 ## 게임 규칙
 
-- 제한시간은 75초입니다. 12개의 링 중 8개 이상을 통과하고 코스를 완주하면 성공합니다.
+총 4라운드입니다. 1라운드는 기존 코스 그대로이며, 이후 라운드는 다른 경로와 추가 링으로 구성됩니다.
+
+| 라운드 | 링 | 제한시간 | 최소 통과 목표 |
+| --- | --- | --- | --- |
+| 1 | 12개 | 75초 | 8개 |
+| 2 | 15개 | 90초 | 10개 |
+| 3 | 18개 | 105초 | 12개 |
+| 4 | 21개 | 120초 | 14개 |
+
+- 라운드 성공 후 Enter를 누르면 다음 라운드로 이어집니다. 4라운드까지 성공하면 전체 도전이 끝납니다.
+- 점수는 라운드 사이에 누적되며, 각 라운드 시작 시 생명과 부스트가 회복됩니다.
+- 시간 초과, 세 번의 바다 충돌, 통과 목표 미달로 실패하면 Enter로 1라운드부터 다시 시작합니다. 재도전과 R 재시작은 점수와 진행을 초기화합니다.
 - 링을 통과하면 2초를 얻고, 놓치면 5초가 줄어듭니다.
 - 연속 통과하면 최대 5배까지 점수 보너스를 받습니다. 링 정중앙 통과는 추가 점수를 줍니다.
 - 부스트는 사용하지 않을 때 자동으로 충전됩니다.
@@ -55,7 +66,7 @@ python3 -m http.server 8000 --bind 127.0.0.1
 | `vendor/THREE-LICENSE.txt` | Three.js MIT 라이선스 |
 | `tests/flight.test.mjs` | 이동, 부스트, 판정 및 완주 검증 |
 
-코스는 `flight.js`의 `COURSE`에서, 조작과 3D 장면은 `game.js`에서 수정할 수 있습니다. Google Fonts는 온라인일 때 불러오며, 연결이 없으면 기본 글꼴을 사용합니다.
+라운드별 링·시간·통과 목표는 `flight.js`의 `ROUNDS`에서, 기본 경로는 `ROUTE`에서, 조작과 3D 장면은 `game.js`에서 수정할 수 있습니다. Google Fonts는 온라인일 때 불러오며, 연결이 없으면 기본 글꼴을 사용합니다.
 
 ## 게임 로직 검증
 
@@ -65,7 +76,7 @@ Node.js 22 이상에서 실행합니다.
 node tests/flight.test.mjs
 ```
 
-이동, 일시정지, 부스트와 충전, 링 통과 및 놓침, 바다 충돌, 시간 초과, 전체 코스 완주를 검증합니다.
+이동, 부스트, 일시정지, 4라운드 순차 진행, 누적 점수, 전체 완주, 2–4라운드에서 실패한 뒤 1라운드로 초기화되는 동작을 검증합니다.
 
 ## 외부 라이브러리
 
